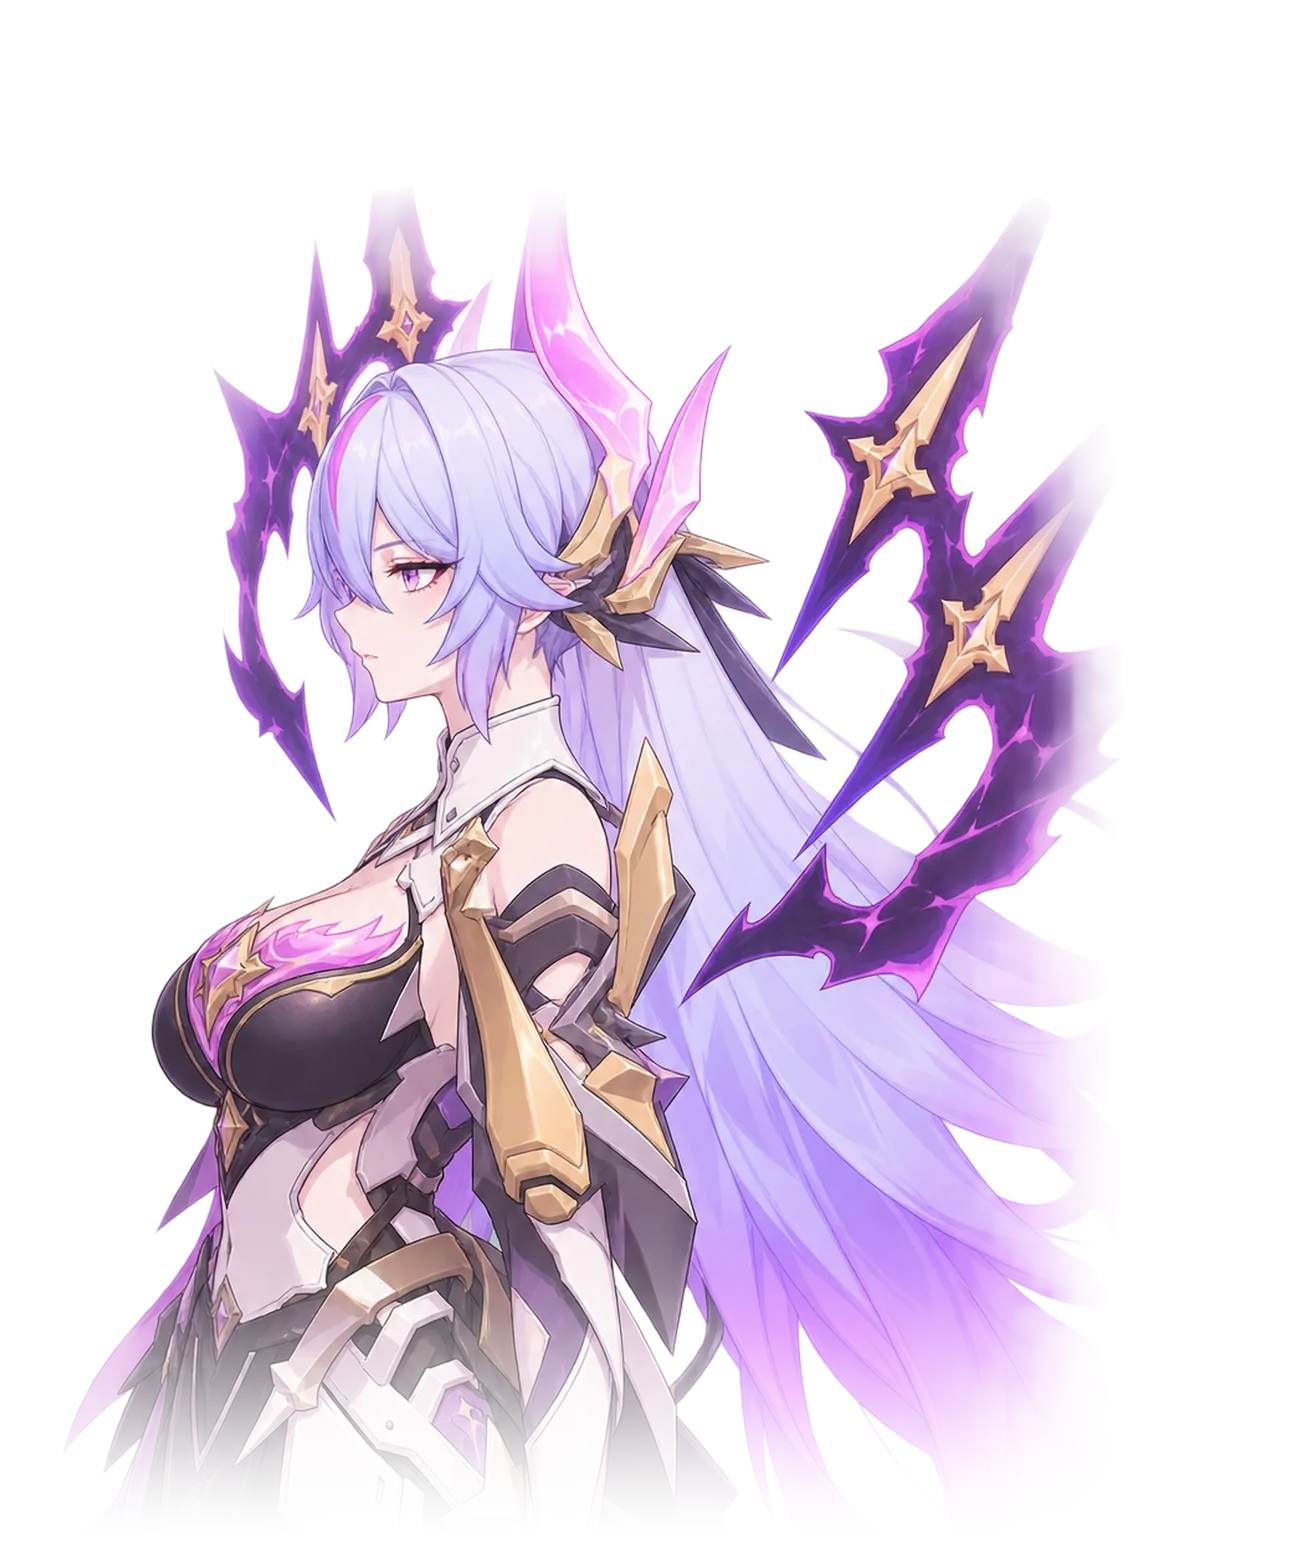
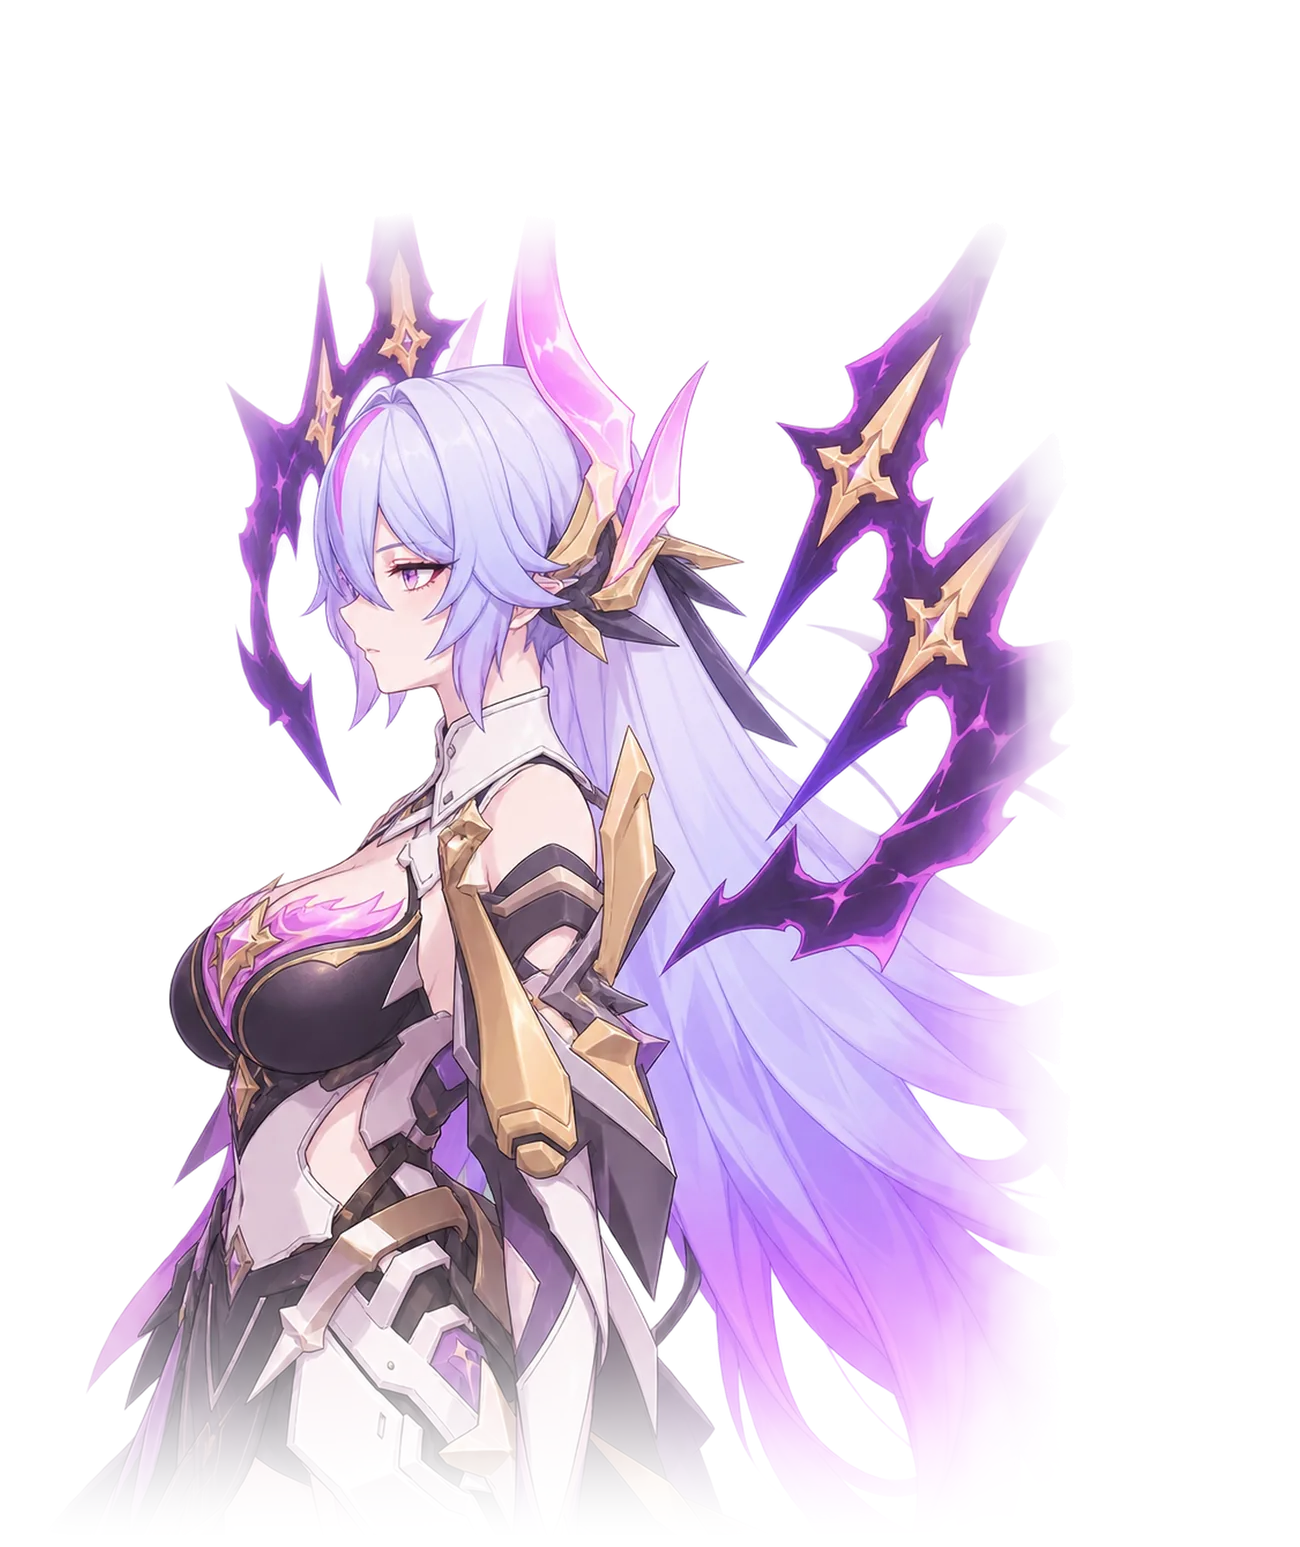
fix(menu): lift the portraits and draw three of them smaller around the eye
The eye line moves up so the figures sit centred. Experience left and Characters right are a little smaller, Story right a lot smaller. The eyes of each pair stay level.

Changed region(s): [[0.0615, 0.1241, 0.8615, 0.9619]]

diff --git a/apps/web/src/components/nav/nav.module.css b/apps/web/src/components/nav/nav.module.css
@@ -488,7 +488,7 @@
    height, so both pairs of eyes sit on one line. */
 .stage {
   --u: 8vh;
-  --eye-y: 40vh;
+  --eye-y: 35vh;
   /* From the middle of the screen to an eye: half a title, the nose, and a little air. */
   --eye-d: calc(min(41vh, 32vw) + var(--u) * 1.5);
   position: absolute;

diff --git a/scripts/menu/build.py b/scripts/menu/build.py
@@ -7,7 +7,8 @@ the head is drawn.
 Output: apps/web/public/img/menu/<page>-<side>.webp.
 
 Every figure is scaled so the distance from the eye to the chin is the same (UNIT px on the
-canvas, so heads, shoulders and the body below them all share one size) and placed on a fixed
+canvas, so heads, shoulders and the body below them all share one size; `SIZE` makes a few of
+them a little smaller, around the eye) and placed on a fixed
 canvas with the eye at the same height. Both eyes of a pair therefore sit on one horizontal line
 when the two canvases are placed at the same top. "left" art faces right and stands on the left of
 the menu, "right" art faces left and stands on the right, so the eye is placed near the inner edge
@@ -58,6 +59,14 @@ PORTRAITS = {
 }
 
 
+# Figures drawn bigger than the others are drawn smaller, around the eye, so the eye line stays.
+SIZE = {
+    ("experience", "left"): 0.93,
+    ("story", "right"): 0.78,
+    ("character", "right"): 0.93,
+}
+
+
 def smooth(t: np.ndarray) -> np.ndarray:
     t = np.clip(t, 0.0, 1.0)
     return t * t * (3 - 2 * t)
@@ -80,10 +89,10 @@ def source_cuts(im: Image.Image) -> dict[str, bool]:
     }
 
 
-def build_one(src: Path, side: str, ex: int, ey: int, cy: int) -> Image.Image:
+def build_one(src: Path, side: str, ex: int, ey: int, cy: int, size: float = 1.0) -> Image.Image:
     im = Image.open(src).convert("RGBA")
     cuts = source_cuts(im)
-    k = UNIT / (cy - ey)
+    k = UNIT * size / (cy - ey)
     scaled = scale(im, k)
     canvas = Image.new("RGBA", (CANVAS_W, CANVAS_H), (0, 0, 0, 0))
     ox = round(EYE_X[side] - ex * k)
@@ -123,7 +132,7 @@ def build_one(src: Path, side: str, ex: int, ey: int, cy: int) -> Image.Image:
 def build(src_dir: Path, out_dir: Path) -> None:
     out_dir.mkdir(parents=True, exist_ok=True)
     for (page, side), (file, ex, ey, cy) in PORTRAITS.items():
-        out = build_one(src_dir / file, side, ex, ey, cy)
+        out = build_one(src_dir / file, side, ex, ey, cy, SIZE.get((page, side), 1.0))
         target = out_dir / f"{page}-{side}.webp"
         out.save(target, "WEBP", quality=82, method=6)
         print(f"{page:11} {side:5} {out.width}x{out.height} {target.stat().st_size // 1024} KB")

diff --git a/docs/design/design-system.md b/docs/design/design-system.md
@@ -429,9 +429,9 @@ Primitives that page engineers added to shared code. One line each.
 
 The pairs are the files of the five pages: `home`, `experience`, `story`, `character`, `collection`, each with a left and a right art. Left art faces right and stands on the left, right art faces left and stands on the right.
 
-**Portrait art** (`scripts/menu/build.py`, output `public/img/menu/<page>-<side>.webp`, 1300 x 1547 each). The sources differ in size, crop and head size, so the script scales each one until the eye-to-chin distance (a "unit", 130 px) is the same, which also makes the bodies the same size, and places the eye at the same height on a canvas that runs 4.4 units above the eye and 7.5 below it. Both canvases of a pair are set at the same height in the menu, so the two pairs of eyes sit on one horizontal line and the faces look at each other. No cut shows: the lower body, the outer edge and any edge of a source that is itself a cut (the top of the Character page's left art) fade to transparent inside the file. The eye and chin points are measured by hand on the sources and stored in the script. Rebuild with `python -I scripts/menu/build.py "<source folder>"` (the anaconda Python, Pillow and numpy).
+**Portrait art** (`scripts/menu/build.py`, output `public/img/menu/<page>-<side>.webp`, 1300 x 1547 each). The sources differ in size, crop and head size, so the script scales each one until the eye-to-chin distance (a "unit", 130 px) is the same, which also makes the bodies the same size (three figures are drawn a little smaller on purpose, around the eye: `SIZE` in the script), and places the eye at the same height on a canvas that runs 4.4 units above the eye and 7.5 below it. Both canvases of a pair are set at the same height in the menu, so the two pairs of eyes sit on one horizontal line and the faces look at each other. No cut shows: the lower body, the outer edge and any edge of a source that is itself a cut (the top of the Character page's left art) fade to transparent inside the file. The eye and chin points are measured by hand on the sources and stored in the script. Rebuild with `python -I scripts/menu/build.py "<source folder>"` (the anaconda Python, Pillow and numpy).
 
-In the menu (`nav.module.css`, `.stage`) a unit is `8vh`, the eyes are at `40vh`, and each eye stands half a title plus a nose's length from the middle, so the figures grow with the screen's height and leave the titles clear. On a portrait screen (taller than 4:5) the figures are smaller and stand low, behind the last titles, the pair of the current page. The art is warmed after the site opens (it is not in the loading bar, because the menu is not first paint).
+In the menu (`nav.module.css`, `.stage`) a unit is `8vh`, the eyes are at `35vh`, and each eye stands half a title plus a nose's length from the middle, so the figures grow with the screen's height and leave the titles clear. On a portrait screen (taller than 4:5) the figures are smaller and stand low, behind the last titles, the pair of the current page. The art is warmed after the site opens (it is not in the loading bar, because the menu is not first paint).
 
 ## Video player
 
